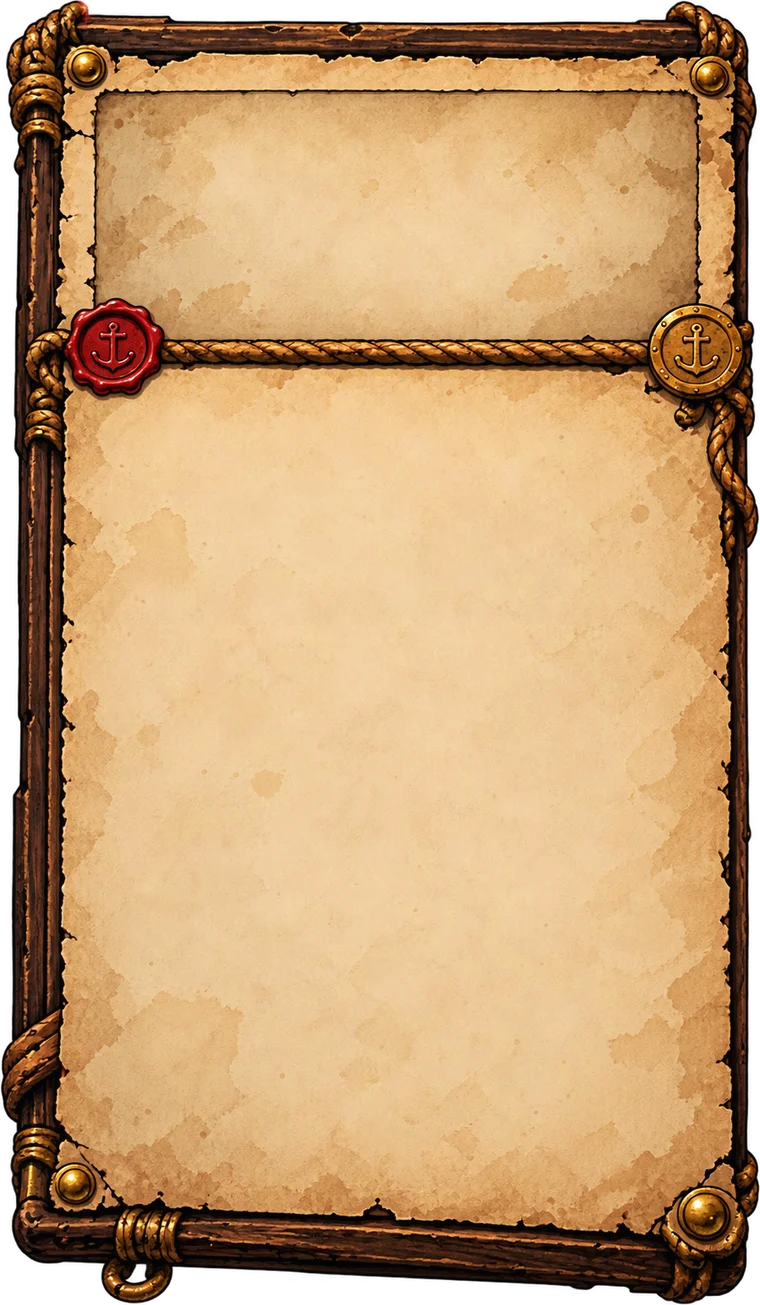
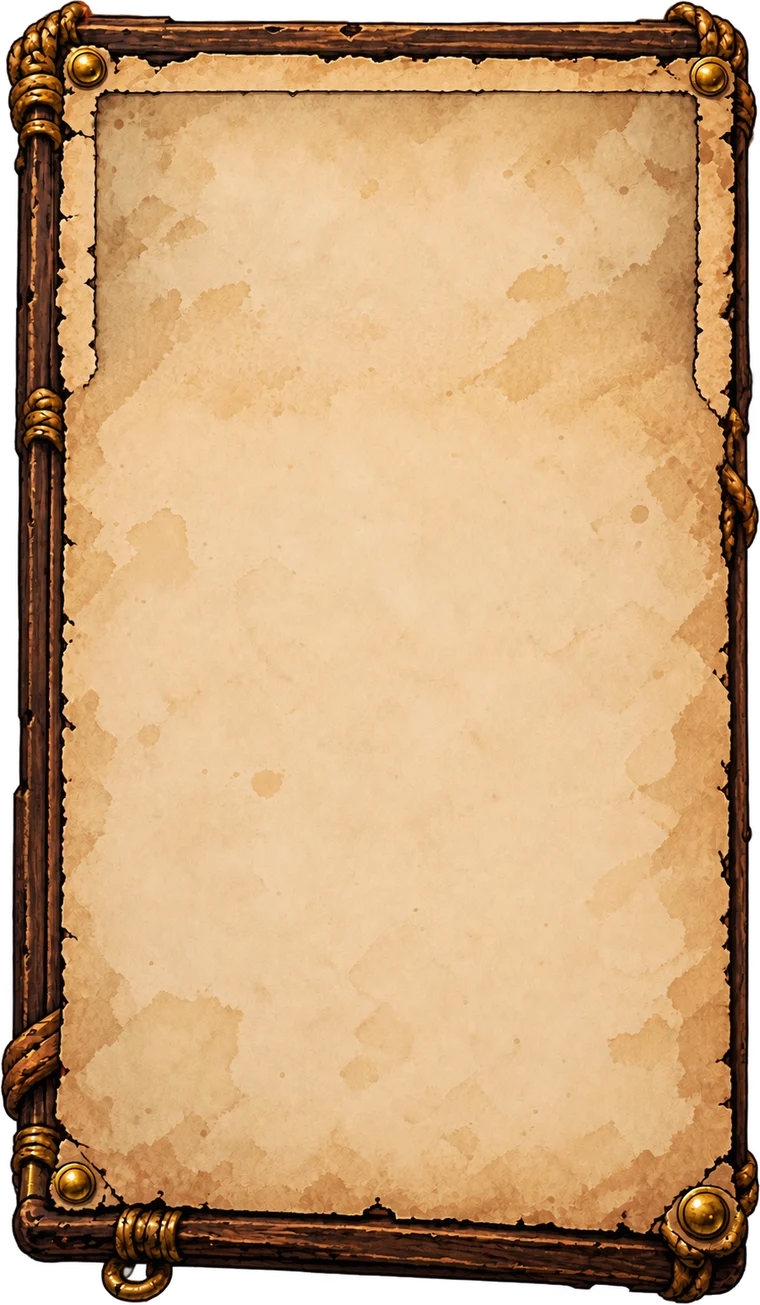
Liste des decks : la fiche en deux calques, la corde passe sur l'illustration
Nouveau cadre plein (fiche.webp) et la corde avec ses sceaux à part
(fiche-corde.webp) : l'illustration remplit le haut du parchemin, la corde
passe par-dessus son bas. Sources PNG converties et retirées.

Claude-Session: https://claude.ai/code/session_01Dk4wXKVkn9mvnA81dBfPRi

diff --git a/features/decks/DeckTable.module.css b/features/decks/DeckTable.module.css
@@ -552,14 +552,30 @@
 }
 
 /* L'illustration dans la fenêtre du haut du cadre. */
+/* L'illustration occupe le haut du parchemin, jusque SOUS la corde. */
 .ficheArt {
   position: absolute;
-  left: 12.5%;
-  top: 7%;
-  width: 79%;
-  height: 18.5%;
+  left: 8.2%;
+  top: 5.6%;
+  width: 84.6%;
+  height: 22.5%;
   background: #1b2630 center 25% / cover no-repeat;
-  box-shadow: inset 0 0 1cqw rgba(0, 0, 0, 0.6);
+  box-shadow: inset 0 0 1cqw rgba(0, 0, 0, 0.55);
+  -webkit-mask: linear-gradient(180deg, #000 88%, transparent);
+  mask: linear-gradient(180deg, #000 88%, transparent);
+}
+
+/* La corde et ses deux sceaux, posés PAR-DESSUS le bas de l'illustration. */
+.ficheRope {
+  position: absolute;
+  left: 2%;
+  top: 24.5%;
+  z-index: 2;
+  width: 97%;
+  aspect-ratio: 900 / 122;
+  background: url("/assets/decks/liste/fiche-corde.webp") center / 100% 100% no-repeat;
+  filter: drop-shadow(0 0.3cqw 0.4cqw rgba(0, 0, 0, 0.55));
+  pointer-events: none;
 }
 
 .ficheFavorite {
@@ -588,7 +604,7 @@
   /* Le bord droit de la fiche sort de l'écran : le contenu s'arrête avant. */
   left: 11%;
   right: 15%;
-  top: 30%;
+  top: 32.5%;
   bottom: 7%;
   display: flex;
   flex-direction: column;

diff --git a/features/decks/DeckTable.tsx b/features/decks/DeckTable.tsx
@@ -324,6 +324,7 @@ function DeckFiche(props: DeckTableProps & { deck: BrowserDeck | null }) {
   return (
     <aside className={styles.fiche} aria-label={`Fiche de ${deck.name}`} aria-live="polite">
       <span className={styles.ficheArt} style={deck.artUrl ? { backgroundImage: `url("${deck.artUrl}")` } : undefined} />
+      <span className={styles.ficheRope} aria-hidden />
       <button
         type="button"
         className={styles.ficheFavorite}

diff --git a/public/assets/decks/liste/README.md b/public/assets/decks/liste/README.md
@@ -6,7 +6,8 @@ Visuels de la nouvelle liste des decks (`features/decks/DeckTable.tsx`), convert
 - `onglet.webp` — bande de parchemin (onglets, tri, compteur) ; `recherche.webp` — barre de recherche sombre.
 - `pile.webp` — cadre de la pile de cartes d'un deck (fenêtre : x 13–91 %, y 4–81 %).
 - `bandeau-titre.webp` — le bandeau du nom sous la pile.
-- `fiche.webp` — le cadre de bois de la fiche (illustration : x 12–92 %, y 7–25 % ; corps : à partir de 29 %).
+- `fiche.webp` — le cadre de bois de la fiche, parchemin plein (source `panel-deck-list-droite-asset-panel.png`).
+- `fiche-corde.webp` — la corde et ses deux sceaux, posée PAR-DESSUS le bas de l'illustration (source `panel-deck-list-droite-asset.png`).
 - `fleche.webp` — flèche de défilement.
 - `icone-mes-decks`, `icone-preconstruits`, `icone-favoris`, `icone-recemment-joues` — icônes des onglets.
 - `encre-1..3.webp` — la tache d'encre qui éclot sous le deck choisi.
